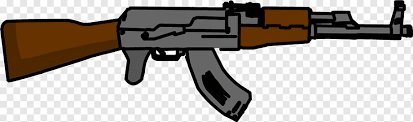
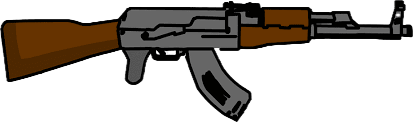
Improved some features

Changed region(s): [[0.0, 0.0, 1.0, 1.0], [0.0, 0.3934, 0.0291, 0.4426]]

diff --git a/frontend/src/components/GameCanvas.jsx b/frontend/src/components/GameCanvas.jsx
@@ -14,13 +14,10 @@ const GameCanvas = ({ socket }) => {
     const canvas = canvasRef.current;
     const ctx = canvas.getContext("2d");
 
-    const resizeCanvas = () => {
-      canvas.width = window.innerWidth;
-      canvas.height = window.innerHeight;
-    };
-
-    resizeCanvas();
-    window.addEventListener("resize", resizeCanvas);
+    const fixedWidth = 1920; // Example width
+    const fixedHeight = 1080;
+    canvas.width = 1920;
+    canvas.height = 1080;
 
     const update = () => {
       ctx.clearRect(0, 0, canvas.width, canvas.height);
@@ -41,7 +38,12 @@ const GameCanvas = ({ socket }) => {
           JSON.stringify({
             type: "MOVE",
             roomId: roomIdRef.current.value,
-            position: { x: player.current.x, y: player.current.y },
+            position: {
+              x: player.current.x,
+              y: player.current.y,
+              isCrouching: player.current.isCrouching,
+              gunAngle: player.current.gun.gunAngle,
+            },
           })
         );
       }
@@ -54,7 +56,6 @@ const GameCanvas = ({ socket }) => {
     // Cleanup animation frame and resize listener
     return () => {
       cancelAnimationFrame(animationFrameId.current);
-      window.removeEventListener("resize", resizeCanvas);
     };
   }, [socket]);
 
@@ -69,7 +70,12 @@ const GameCanvas = ({ socket }) => {
         if (!opponentPlayer.current) {
           opponentPlayer.current = new Player(position.x, position.y); // Create opponent player if not exists
         } else {
-          opponentPlayer.current.updatePosition(position.x, position.y); // Update opponent player's position
+          opponentPlayer.current.updatePosition(
+            position.x,
+            position.y,
+            position.isCrouching,
+            position.gunAngle
+          ); // Update opponent player's position
         }
       }
     };

diff --git a/frontend/src/components/Gun.js b/frontend/src/components/Gun.js
@@ -10,6 +10,10 @@ export default class Gun {
     this.gunWidth = gunWidth;
     this.gunAngle = 0;
 
+    // Load gun skin image
+    this.gunSkin = new Image();
+    this.gunSkin.src = "/Ak-47.png";
+
     this.bullets = [];
     this.bulletSpeed = bulletSpeed;
 
@@ -85,13 +89,29 @@ export default class Gun {
       this.player.y + this.player.height / 2
     );
     ctx.rotate(this.gunAngle);
-    ctx.fillStyle = "red";
-    ctx.fillRect(
-      this.gunLength / 2,
-      -this.gunWidth / 2,
-      this.gunLength,
-      this.gunWidth
-    );
+
+    // Draw the gun skin
+    if (this.gunSkin.complete) {
+      const imgWidth = this.gunLength + 30; // Adjust dimensions as needed
+      const imgHeight = this.gunWidth + 20;
+      ctx.drawImage(
+        this.gunSkin,
+        this.gunLength / 2,
+        -imgHeight / 2,
+        imgWidth,
+        imgHeight
+      );
+    } else {
+      // Fallback: Render a rectangle if the image isn't loaded
+      ctx.fillStyle = "red";
+      ctx.fillRect(
+        this.gunLength / 2,
+        -this.gunWidth / 2,
+        this.gunLength,
+        this.gunWidth
+      );
+    }
+
     ctx.restore();
 
     // Render bullets

diff --git a/frontend/src/components/Player.js b/frontend/src/components/Player.js
@@ -50,9 +50,11 @@ export default class Player {
     window.addEventListener("mousedown", (e) => this.gun.handleMouseDown(e));
   }
 
-  updatePosition(x, y) {
+  updatePosition(x, y, isCrouching, gunAngle) {
     this.x = x;
     this.y = y;
+    this.isCrouching = isCrouching;
+    this.gun.gunAngle = gunAngle;
   }
 
   handleKeyDown(e) {
